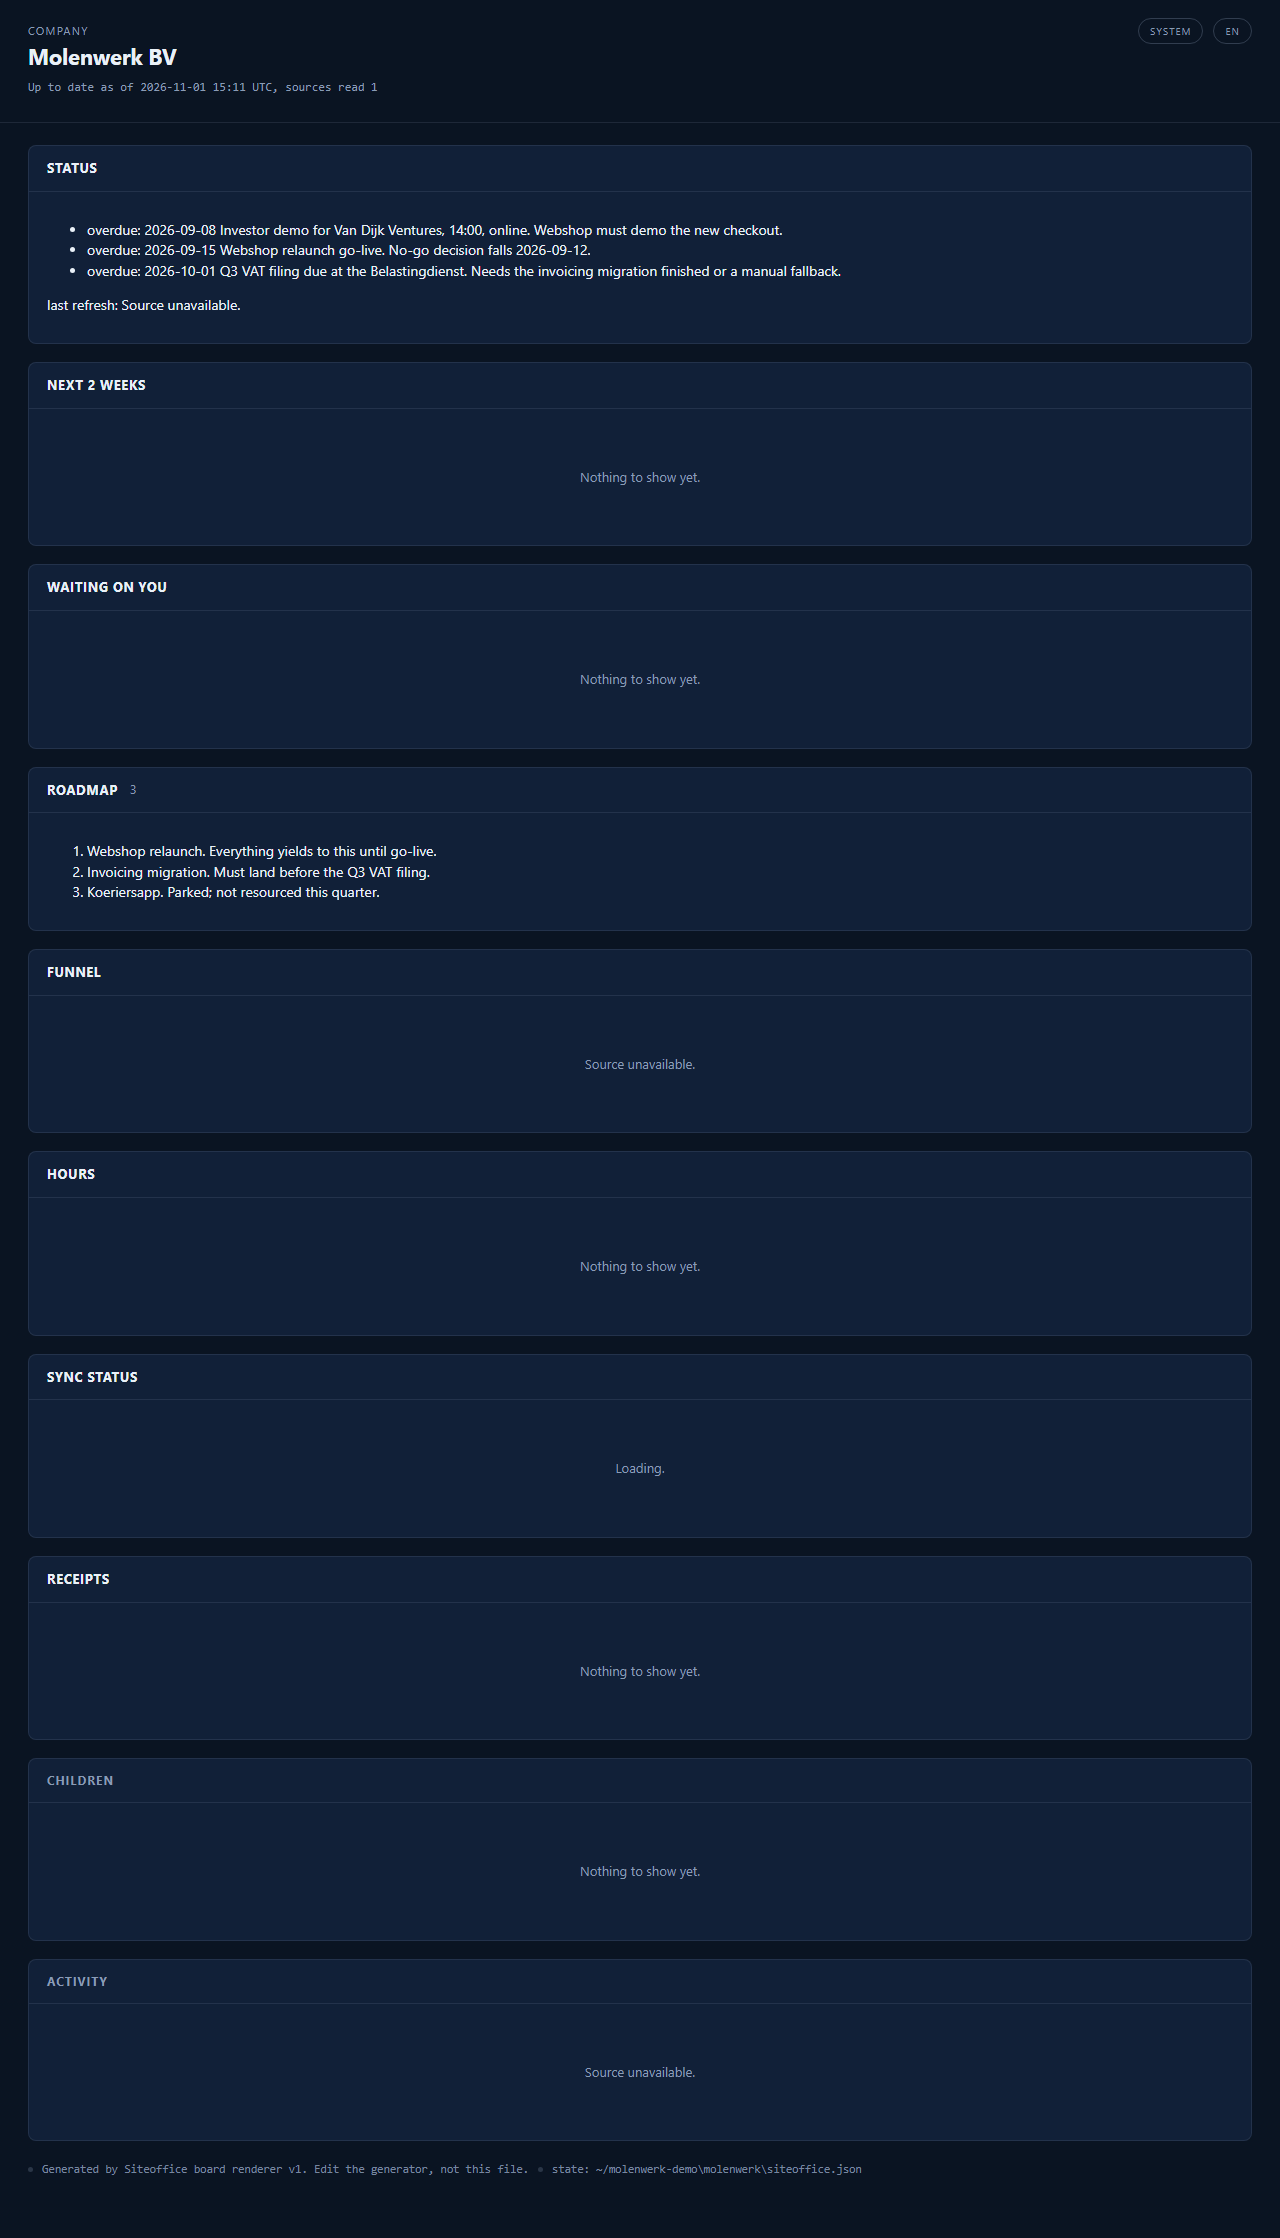
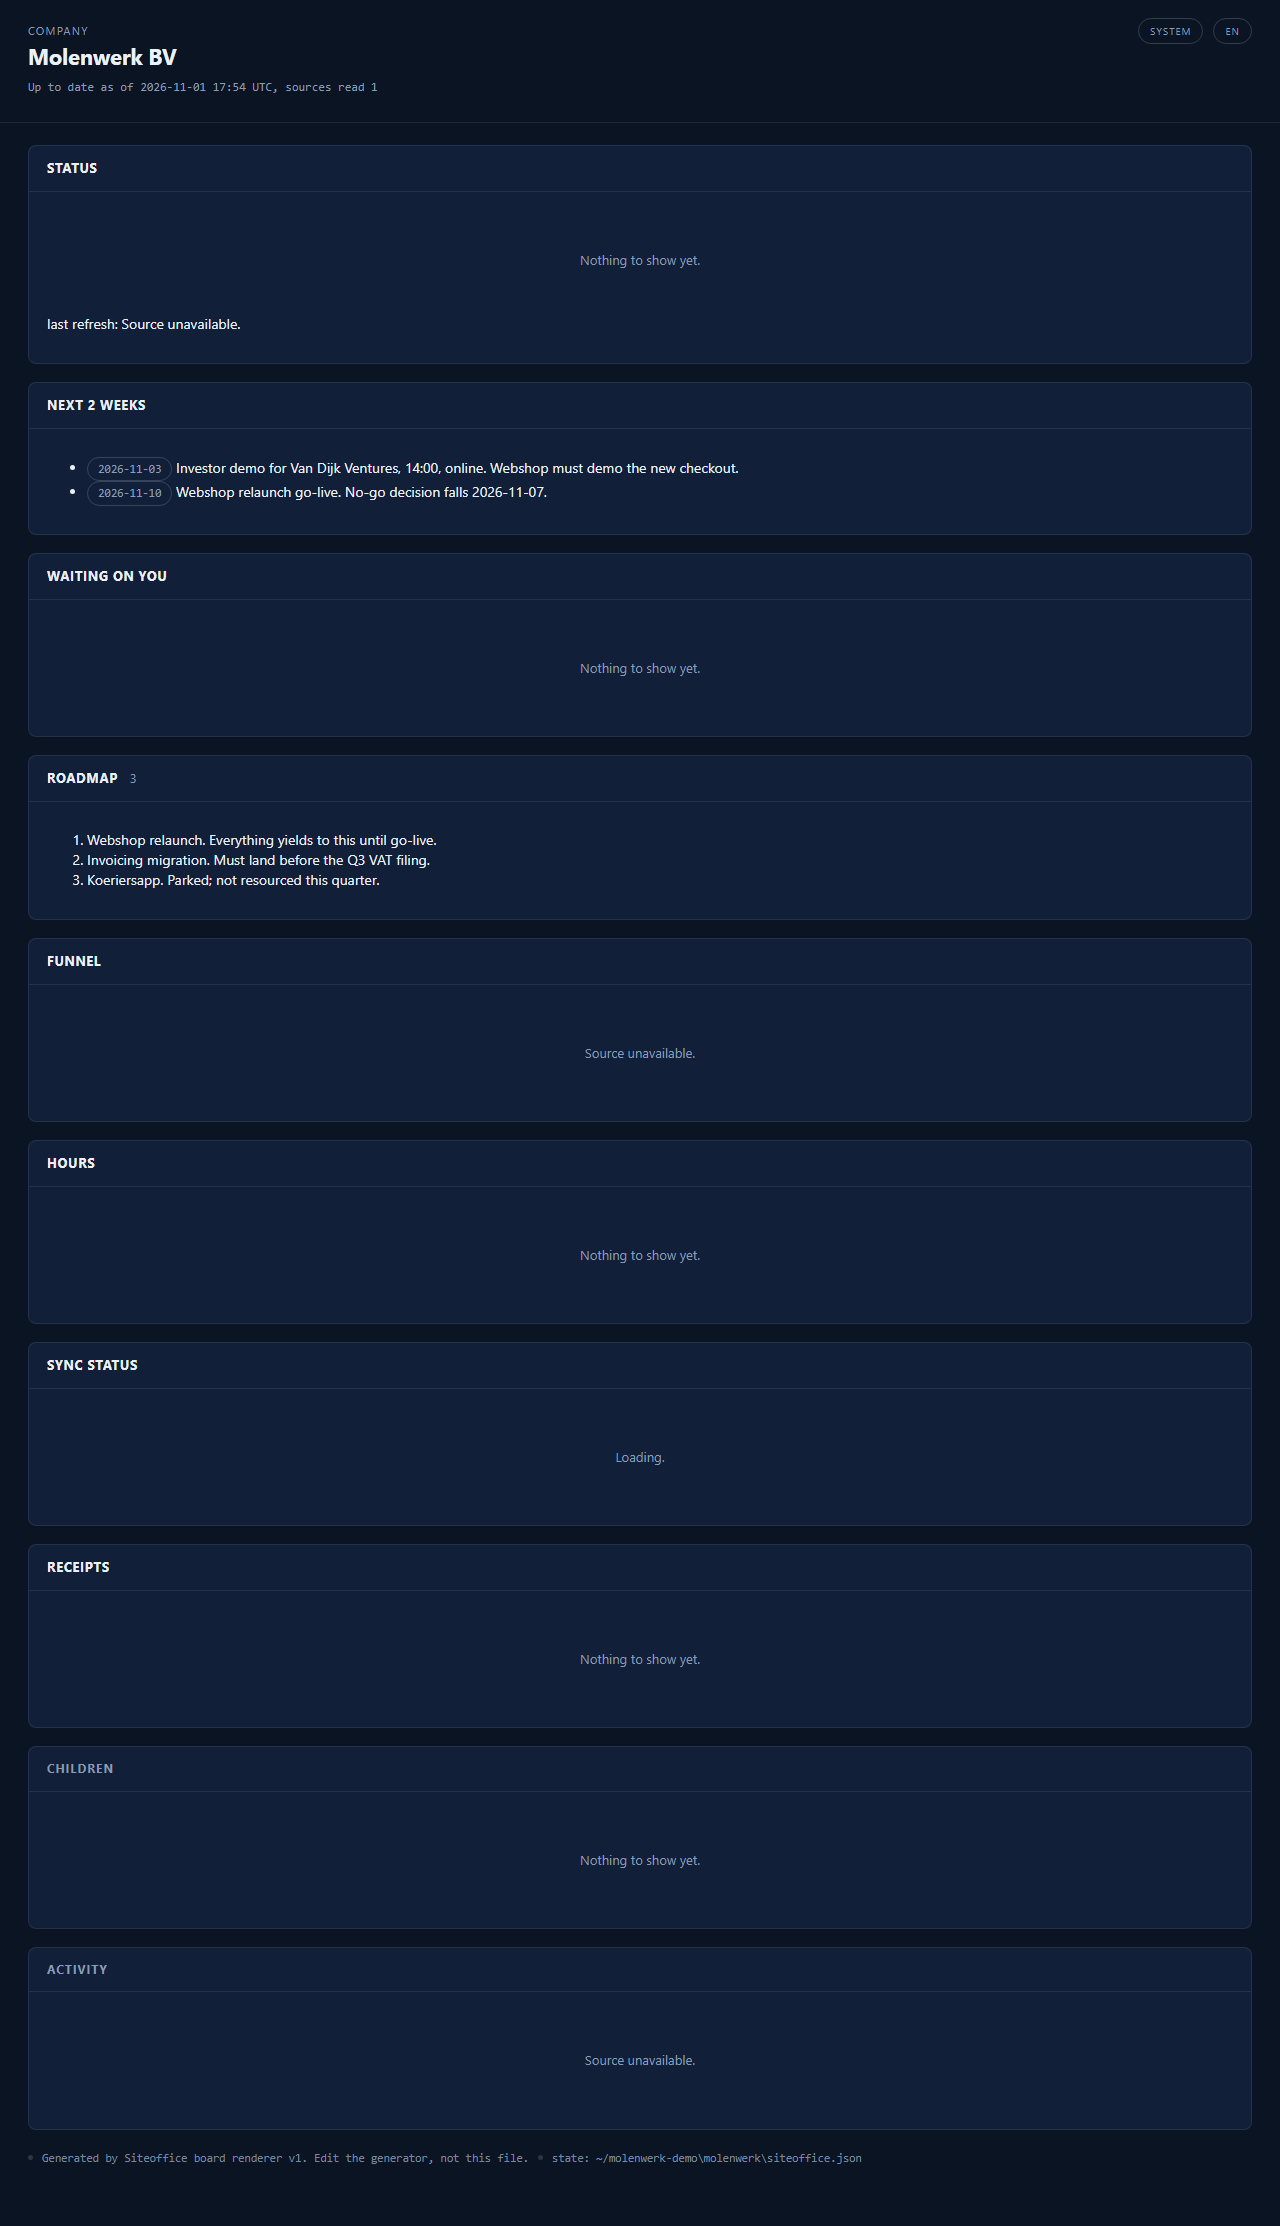
docs(tour): shift dates, record green matrix run
render-tour.py shifts the example dates to the render day, so the board has no
overdue line and the next two weeks fill. The tour page explains the empty panels
and lists three vendored engine defects. README, install matrix and setup guide
cite install-matrix run 41332885453 on da04fd3.

diff --git a/scripts/render-tour.py b/scripts/render-tour.py
@@ -1,6 +1,7 @@
 """Render the guided tour: one demo flow through the engine, screenshotted light and dark.
 
-Copies the Molenwerk example into a temp folder, drives one flow from idea to close with
+Copies the Molenwerk example into a temp folder, shifts its dates to the render day (the board
+then shows no overdue line and a filled next two weeks), drives one flow from idea to close with
 gw.py, renders the board, the flow page at each gate and the receipt, and screenshots each
 page in a light and a dark theme with Playwright (Chromium). The temp copy is always removed.
 
@@ -16,6 +17,7 @@ import stat
 import subprocess
 import sys
 import tempfile
+from datetime import date, timedelta
 from pathlib import Path
 
 REPO = Path(__file__).resolve().parent.parent
@@ -102,6 +104,45 @@ def normalize(text: str, work_root) -> str:
     for form in _root_forms(work_root):
         text = text.replace(form, "<copy>")
     return STAMP.sub("<stamp>", text)
+
+
+ISO_DATE = re.compile(r"(?<!\d)(\d{4})-(\d{2})-(\d{2})(?!\d)")  # not \b: it would miss 2026-08-20_name.md
+TEXT_SUFFIXES = (".md", ".json", ".txt")
+FIRST_DEADLINE_IN_DAYS = 2
+
+
+def _shift_text(text: str, delta: timedelta) -> str:
+    def move(match):
+        try:
+            return (date.fromisoformat(match.group(0)) + delta).isoformat()
+        except ValueError:
+            return match.group(0)
+
+    return ISO_DATE.sub(move, text)
+
+
+def shift_dates(copy: Path, today: date) -> int:
+    """Shift every ISO date in the copy (text and file-name prefixes) by one number of days.
+
+    The earliest deadline lands FIRST_DEADLINE_IN_DAYS after today, so the board shows no overdue
+    line and the next two weeks fill. One shift for all dates keeps their order and spacing, and
+    keeps every Updated date in the past. Returns the shift in days. Files are rewritten, so the
+    board's freshness check (file age) sees them as just updated. The template is never touched.
+    """
+    rows = ISO_DATE.findall((copy / "DEADLINES.md").read_text(encoding="utf-8").split("| Date |")[-1])
+    first = min(date(int(y), int(m), int(d)) for y, m, d in rows)
+    delta = timedelta(days=(today + timedelta(days=FIRST_DEADLINE_IN_DAYS) - first).days)
+    for path in sorted(copy.rglob("*")):
+        if path.is_file() and path.suffix.lower() in TEXT_SUFFIXES:
+            raw = path.read_bytes().decode("utf-8")
+            moved = _shift_text(raw, delta)
+            if moved != raw:
+                path.write_bytes(moved.encode("utf-8"))
+    for path in sorted(copy.rglob("*"), key=lambda p: len(p.parts), reverse=True):
+        name = _shift_text(path.name, delta)
+        if name != path.name:
+            path.rename(path.with_name(name))
+    return delta.days
 
 
 def playwright_available() -> tuple:
@@ -221,12 +262,13 @@ def _on_rm_error(func, path, _exc) -> None:
     func(path)
 
 
-def render_tour(out_dir, *, screenshots=True, work_parent=None) -> dict:
+def render_tour(out_dir, *, screenshots=True, work_parent=None, today=None) -> dict:
     out_dir = Path(out_dir)
     work = Path(tempfile.mkdtemp(prefix="groundwork-tour-", dir=work_parent))
     try:
         copy = work / PROJECT
         shutil.copytree(MOLENWERK, copy)
+        shift_dates(copy, today or date.today())
         tour_dir = copy / "_tour"
         tour_dir.mkdir()
         raw = _drive(copy, tour_dir)

diff --git a/tests/test_render_tour.py b/tests/test_render_tour.py
@@ -4,7 +4,9 @@ from __future__ import annotations
 import importlib.util
 import os
 import re
+import shutil
 import tempfile
+from datetime import date, timedelta
 from pathlib import Path
 
 import pytest
@@ -45,6 +47,27 @@ def test_png_names_are_twelve_pairs(tour):
         assert light.endswith("-light.png")
         assert dark == light[: -len("-light.png")] + "-dark.png"
     assert [n for n, _ in tour.SCREENS] == ["01", "02", "03", "04", "05", "06"]
+
+
+def test_shift_dates_puts_deadlines_ahead_and_leaves_the_template_alone(tour, tmp_path):
+    before = (tour.MOLENWERK / "DEADLINES.md").read_bytes()
+    copy = tmp_path / "molenwerk"
+    shutil.copytree(tour.MOLENWERK, copy)
+    today = date(2027, 3, 10)
+    days = tour.shift_dates(copy, today)
+    rows = [date.fromisoformat(d) for d in re.findall(
+        r"^\| (\d{4}-\d\d-\d\d) \|", (copy / "DEADLINES.md").read_text(encoding="utf-8"), re.M)]
+    assert rows[0] == today + timedelta(days=2)
+    assert rows == sorted(rows) and all(r > today for r in rows)
+    # spacing kept: the template's own gaps between deadlines
+    original = [date.fromisoformat(d) for d in re.findall(
+        r"^\| (\d{4}-\d\d-\d\d) \|", before.decode("utf-8"), re.M)]
+    assert [b - a for a, b in zip(rows, rows[1:])] == [b - a for a, b in zip(original, original[1:])]
+    assert (original[0] + timedelta(days=days)) == rows[0]
+    # an Updated date stays in the past, and the dated file name moves with its date
+    assert "Updated: 2026-08-28" not in (copy / "DEADLINES.md").read_text(encoding="utf-8")
+    assert not any(p.name.startswith("2026-08-20_") for p in copy.rglob("*"))
+    assert (tour.MOLENWERK / "DEADLINES.md").read_bytes() == before
 
 
 def test_six_pages_render_and_one_receipt(tour, rendered):

diff --git a/tests/test_install_docs.py b/tests/test_install_docs.py
@@ -29,8 +29,21 @@ def _cells(line: str) -> list:
 def test_tested_on_table():
     lines = _read(GUIDE).splitlines()
     assert TESTED_ON_HEADER in lines
-    assert TESTED_ON_PLACEHOLDER in lines
     assert "## Tested on" in lines
+    start = lines.index(TESTED_ON_HEADER) + 2
+    rows = []
+    for line in lines[start:]:
+        if not line.startswith("|"):
+            break
+        rows.append(line)
+    assert rows, "the Tested on table has no rows"
+    if rows != [TESTED_ON_PLACEHOLDER]:
+        # A recorded run: every row names a system and links its run.
+        for row in rows:
+            cells = _cells(row)
+            assert len(cells) == 6, row
+            assert cells[0] in ("windows-latest", "macos-latest", "ubuntu-24.04"), row
+            assert cells[5].startswith("[run](https://"), row
 
 
 def test_tested_on_header_matches_ci_row():

diff --git a/docs/tour.md b/docs/tour.md
@@ -32,12 +32,19 @@ refresh only the command output in this page, without Playwright.
 
 ## 1. The board
 
-![The Molenwerk board in the light theme: status with three overdue dates, next two weeks, waiting on you and a roadmap with three items](../assets/screenshots/tour-01-board-light.png)
+![The Molenwerk board in the light theme: an empty status panel, next two weeks listing the investor demo and the webshop go-live, waiting on you and a roadmap with three items](../assets/screenshots/tour-01-board-light.png)
 ![The same Molenwerk board in the dark theme](../assets/screenshots/tour-01-board-dark.png)
 
-**What you see:** The company page for Molenwerk BV. Panels for status, the next two weeks, what waits on you, the roadmap, receipts and recent activity. Panels with no data say "Nothing to show yet" or "Source unavailable".
+**What you see:** The company page for Molenwerk BV. Panels for status, the next two weeks, what waits on you, the roadmap, receipts and recent activity. The next two weeks lists two dated rows, the investor demo and the webshop go-live, and the roadmap lists three priorities. Panels with no data say "Nothing to show yet", "Source unavailable" or "Loading".
 
-**What it means:** This is the whole company at a glance, read from plain files in the folder. The dates in the example are in the past, so they show as overdue. The new flow does not show here yet: its gate lives on the flow page.
+**What it means:** This is the whole company at a glance, read from plain files in the folder. The render script moves every date in its temporary copy so the first deadline lands two days after the day you render, and keeps the order and spacing. So nothing is overdue and the next two weeks fills. The example in `templates/molenwerk` keeps its original dates, because the board tests read it. The VAT filing and the lease renewal fall after the two weeks, so they are not listed. The new flow does not show here yet: its gate lives on the flow page.
+
+Some panels are empty in this local example, and that is the truthful answer, not a fault:
+
+- **Status** lists only overdue dates. Nothing is overdue, so it is empty.
+- **Funnel** needs a funnel folder, **Activity** reads the `_log` folder, and **Children** needs child nodes. The example has none of them, so Funnel and Activity say "Source unavailable" and Children says "Nothing to show yet".
+- **Sync status** waits for a `sync_status.js` file that the sync layer writes after a sync. The example never syncs, so the picture stays on "Loading".
+- **Hours** has no logged hours, **Receipts** has none yet at this point of the tour, and **Waiting on you** is empty here because the gate lives on the flow page.
 
 **What you do next:** Nothing on this page. Open the flow page to answer the plan gate, or ask Claude for the flow status.
 
@@ -143,3 +150,17 @@ stage=execute status=decided step=1/1 phase=learn | GATE G3 decided: proceed. Ru
 <!-- /tour:G3 -->
 
 After the last proceed, one more advance closes the flow. That is the whole loop.
+
+## Known issues
+
+Three things on these pages come from the engine as vendored from Siteoffice v0.10.4. Groundwork
+has not changed them, so the pictures show them as they are.
+
+- **The Next line offers `approve|reject` at G4.** The verdicts that count at G4 are the ones the
+  command prints: ship, hold or park. G3 shows the same Next line, where the verdicts are proceed,
+  adapt, close or park. Fix comes from Siteoffice.
+- **The first step is numbered 0.** The steps table counts from 0, while the command output says
+  `step=1/1`. Fix comes from Siteoffice.
+- **A `/sprint` line appears in the activity of a one-loop flow.** After G2 the activity shows a
+  `sprint_emitted` line with a `/sprint` command. Groundwork starts no sprint and no agent. Fix
+  comes from Siteoffice.

diff --git a/docs/install-matrix.md b/docs/install-matrix.md
@@ -6,18 +6,23 @@ request and every release tag. The install steps are in [setup-guide.md](setup-g
 
 CI proves the command-line install and the tests. Claude Desktop app install is not tested by CI.
 
+Last green run: [install-matrix 41332885453](https://github.com/siteoffice/groundwork/actions/runs/41332885453)
+on commit `da04fd3`, 2026-11-01. All six cells (three systems, two Pythons each) passed. macOS and
+Ubuntu are verified in CI, as is Windows. The install steps, `claude plugin install` for both
+plugins, passed on all three systems without a Claude login.
+
 ## Per step
 
 | Step | Windows | macOS | Linux |
 |---|---|---|---|
-| `marketplace add` | pending first green run | pending first green run | pending first green run |
-| `install groundwork` | pending first green run | pending first green run | pending first green run |
-| `install groundwork-mods` | pending first green run | pending first green run | pending first green run |
-| `plugin list` | pending first green run | pending first green run | pending first green run |
-| `engine` | pending first green run | pending first green run | pending first green run |
-| `board` | pending first green run | pending first green run | pending first green run |
-| `root` | pending first green run | pending first green run | pending first green run |
-| `mods plugin test` | pending first green run | pending first green run | pending first green run |
+| `marketplace add` | proven by CI | proven by CI | proven by CI |
+| `install groundwork` | proven by CI | proven by CI | proven by CI |
+| `install groundwork-mods` | proven by CI | proven by CI | proven by CI |
+| `plugin list` | proven by CI | proven by CI | proven by CI |
+| `engine` | proven by CI | proven by CI | proven by CI |
+| `board` | proven by CI | proven by CI | proven by CI |
+| `root` | proven by CI | proven by CI | proven by CI |
+| `mods plugin test` | proven by CI | proven by CI | proven by CI |
 | `sync` | not tested | not tested | not tested |
 | Claude Desktop app install | not tested | not tested | not tested |
 
@@ -27,10 +32,8 @@ The Claude Desktop app does not exist on Linux, so its Linux cell can never chan
 
 - **proven by CI**: the step ran and passed on that system, with both Pythons.
 - **skipped: needs a Claude login**: the step asked for a Claude login, which CI does not have.
-  It did not fail and it did not pass.
+  It did not fail and it did not pass. No step was skipped for this reason in the last green run.
 - **not tested**: CI does not run this step.
-- **pending first green run**: the workflow runs this step, but no green run has been recorded
-  here yet.
 
 ## What each step is
 
@@ -49,5 +52,7 @@ The Claude Desktop app does not exist on Linux, so its Linux cell can never chan
   the app.
 
 Each test suite must reach a floor (passed plus skipped, with nothing failed), so a run that
-quietly collects fewer tests does not count as green. Each job also prints a row for the
+quietly collects fewer tests does not count as green. The root floor is 628 on Windows and 621 on
+macOS and Linux, because Windows runs the `os.name == "nt"` test blocks and the others collect
+fewer tests. Each job also prints a row for the
 Tested on table in its run summary; rows from green runs are copied into the setup guide.

diff --git a/README.md b/README.md
@@ -100,8 +100,8 @@ and nothing is registered for you.
 What it costs you: the gates are slower than letting an agent run. That is on purpose. If you
 want a machine that ships without asking you, this is the wrong tool.
 
-I measured what I claim here by running it. The engine carries 987 passing tests, the board 185,
-the repository's pytest suite 628, the `siteoffice-git` engine 448 and the mods suite 209, all green on Windows at this release. macOS and Linux are covered by the CI install matrix once it runs green; until then they are not verified, and [docs/install-matrix.md](docs/install-matrix.md) shows the state per step. Not verified: a live Claude Code session (the mods tests mock the host). The trust
+I measured what I claim here by running it. The engine carries 1021 passing tests, the board 187,
+the repository's pytest suite 628, the `siteoffice-git` engine 451 and the mods suite 209, all green on Windows at this release. macOS and Ubuntu are verified in CI as well: install-matrix run [41332885453](https://github.com/siteoffice/groundwork/actions/runs/41332885453) on commit `da04fd3` passed the engine, board, repository and mods suites and the plugin install steps on all three systems, and the install steps passed without a Claude login. [docs/install-matrix.md](docs/install-matrix.md) shows each step. The `siteoffice-git` engine suite is not in CI. Not verified: the Claude Desktop app install, and a live Claude Code session (the mods tests mock the host). The trust
 tests that drive real git through the real `gitsafe.ts` need Node 22.18 or newer and are skipped when it is missing or older. That last
 suite builds real git repositories and takes about 25 minutes. Claude Code wrote most of the code
 and text of this release. I set the scope and I decide what ships.

diff --git a/docs/setup-guide.md b/docs/setup-guide.md
@@ -180,7 +180,12 @@ Python, Node and Claude Code versions it used, the date and a link to the run.
 
 | OS image | Python | Node | Claude Code | Date | Run |
 |---|---|---|---|---|---|
-| pending first green run | | | | | |
+| windows-latest | 3.9.13 | v22.23.4 | 2.1.316 | 2026-11-01 | [run](https://github.com/siteoffice/groundwork/actions/runs/41332885453) |
+| windows-latest | 3.13.16 | v22.23.4 | 2.1.316 | 2026-11-01 | [run](https://github.com/siteoffice/groundwork/actions/runs/41332885453) |
+| macos-latest | 3.9.13 | v22.23.4 | 2.1.316 | 2026-11-01 | [run](https://github.com/siteoffice/groundwork/actions/runs/41332885453) |
+| macos-latest | 3.13.17 | v22.23.4 | 2.1.316 | 2026-11-01 | [run](https://github.com/siteoffice/groundwork/actions/runs/41332885453) |
+| ubuntu-24.04 | 3.9.25 | v22.23.4 | 2.1.316 | 2026-11-01 | [run](https://github.com/siteoffice/groundwork/actions/runs/41332885453) |
+| ubuntu-24.04 | 3.13.17 | v22.23.4 | 2.1.316 | 2026-11-01 | [run](https://github.com/siteoffice/groundwork/actions/runs/41332885453) |
 
 ## What CI proves
 

diff --git a/CHANGELOG.md b/CHANGELOG.md
@@ -21,6 +21,10 @@ All notable changes. The version is one clock for the whole repository: `groundw
   both plugins.
 - **Engine resynced from Siteoffice v0.10.4; sprint run modes and notices are vendored, unused by
   one-loop.**
+- **Tour dates follow the render day.** `scripts/render-tour.py` shifts the dates in its temporary
+  copy of the Molenwerk example, so the board shows no overdue line and a filled next two weeks.
+  `docs/tour.md` explains the panels that stay empty in a local example and lists three known
+  issues from the vendored engine.
 
 ## 0.3.0
 
